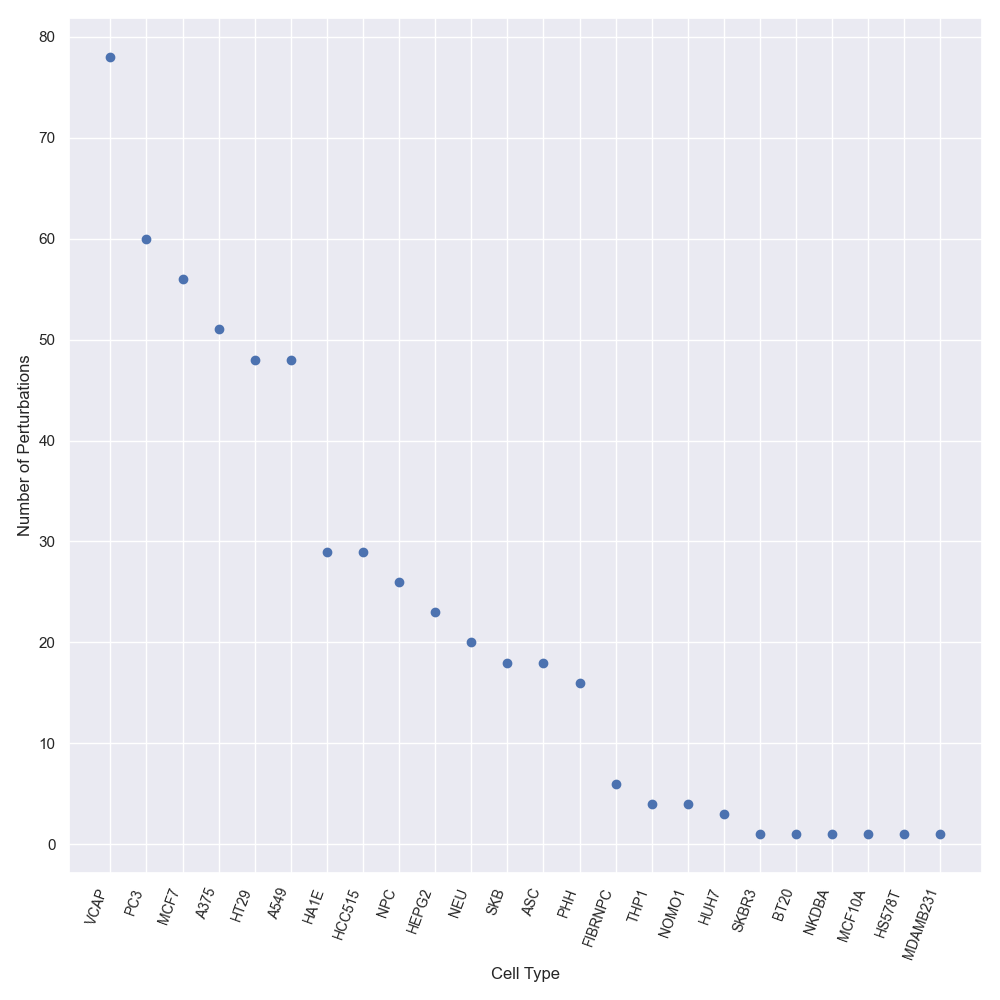
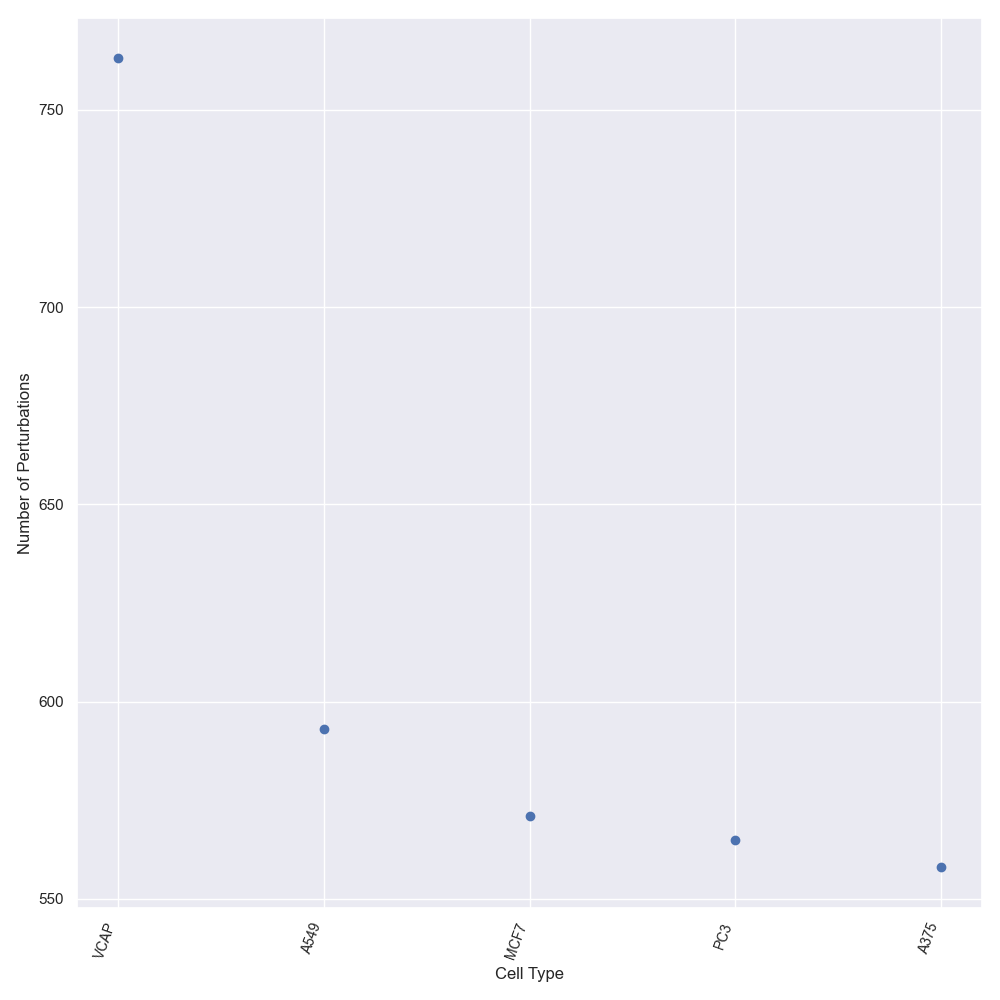
run mice

diff --git a/evaluation/vary_perturbation_block.py b/evaluation/vary_perturbation_block.py
@@ -18,16 +18,17 @@ algs = []
 # em.boxplot_per_intervention()
 
 
-def run(name, average, num_perts):
+def run(name, average, num_perts, num_cells=None):
     pm = PredictionManager(
-        num_cells=None,
+        cell_start=0,
+        num_cells=num_cells,
         num_perts=num_perts,
         name=name,
         num_folds=None,
         average=average
     )
     # pm.predict(impute_missforest, overwrite=False)
-    # pm.predict(impute_mice, overwrite=False)
+    pm.predict(impute_mice, overwrite=False)
     pm.predict(impute_unit_mean, overwrite=False)
     pm.predict(impute_intervention_mean, overwrite=False)
     pm.predict(impute_two_way_mean, overwrite=False)

diff --git a/visuals/plot_availability_subset.py b/visuals/plot_availability_subset.py
@@ -4,8 +4,9 @@ import matplotlib.pyplot as plt
 import numpy as np
 
 df, _, _, _ = get_data_block(
-    num_cells=None,
-    num_perts=100,
+    num_cells=5,
+    num_perts=1000,
+    cell_start=0,
     name='level2'
 )
 
